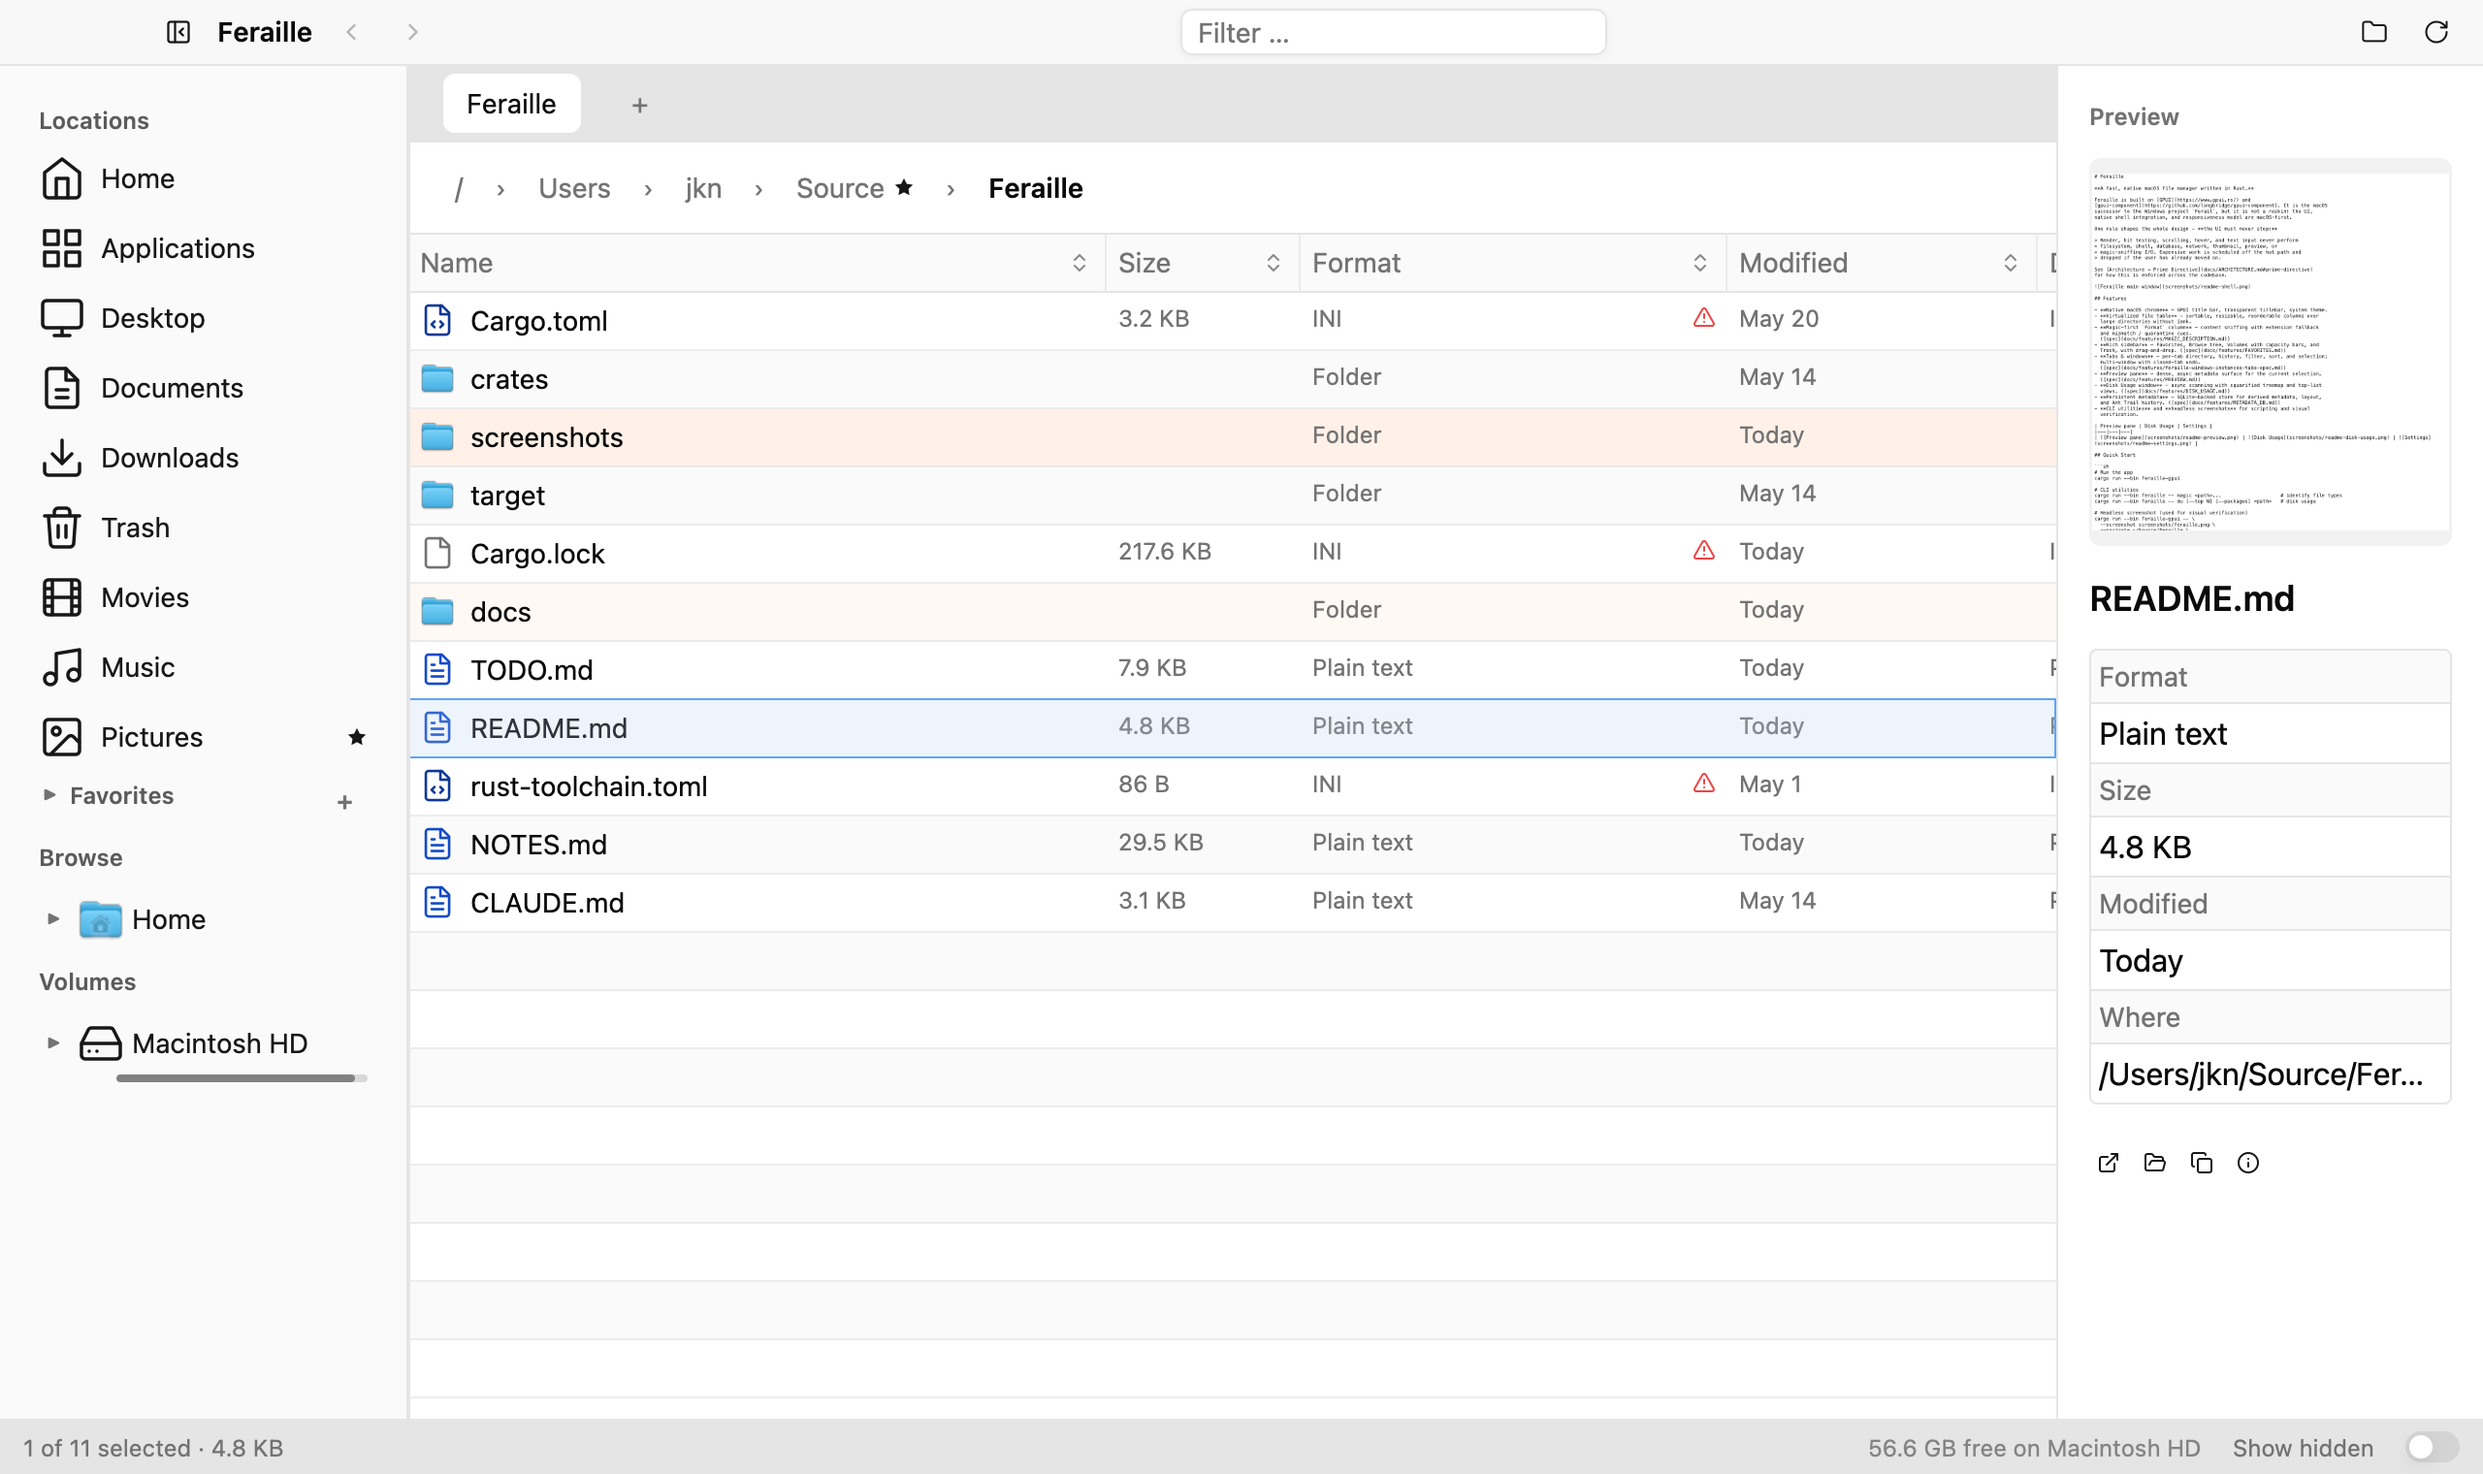
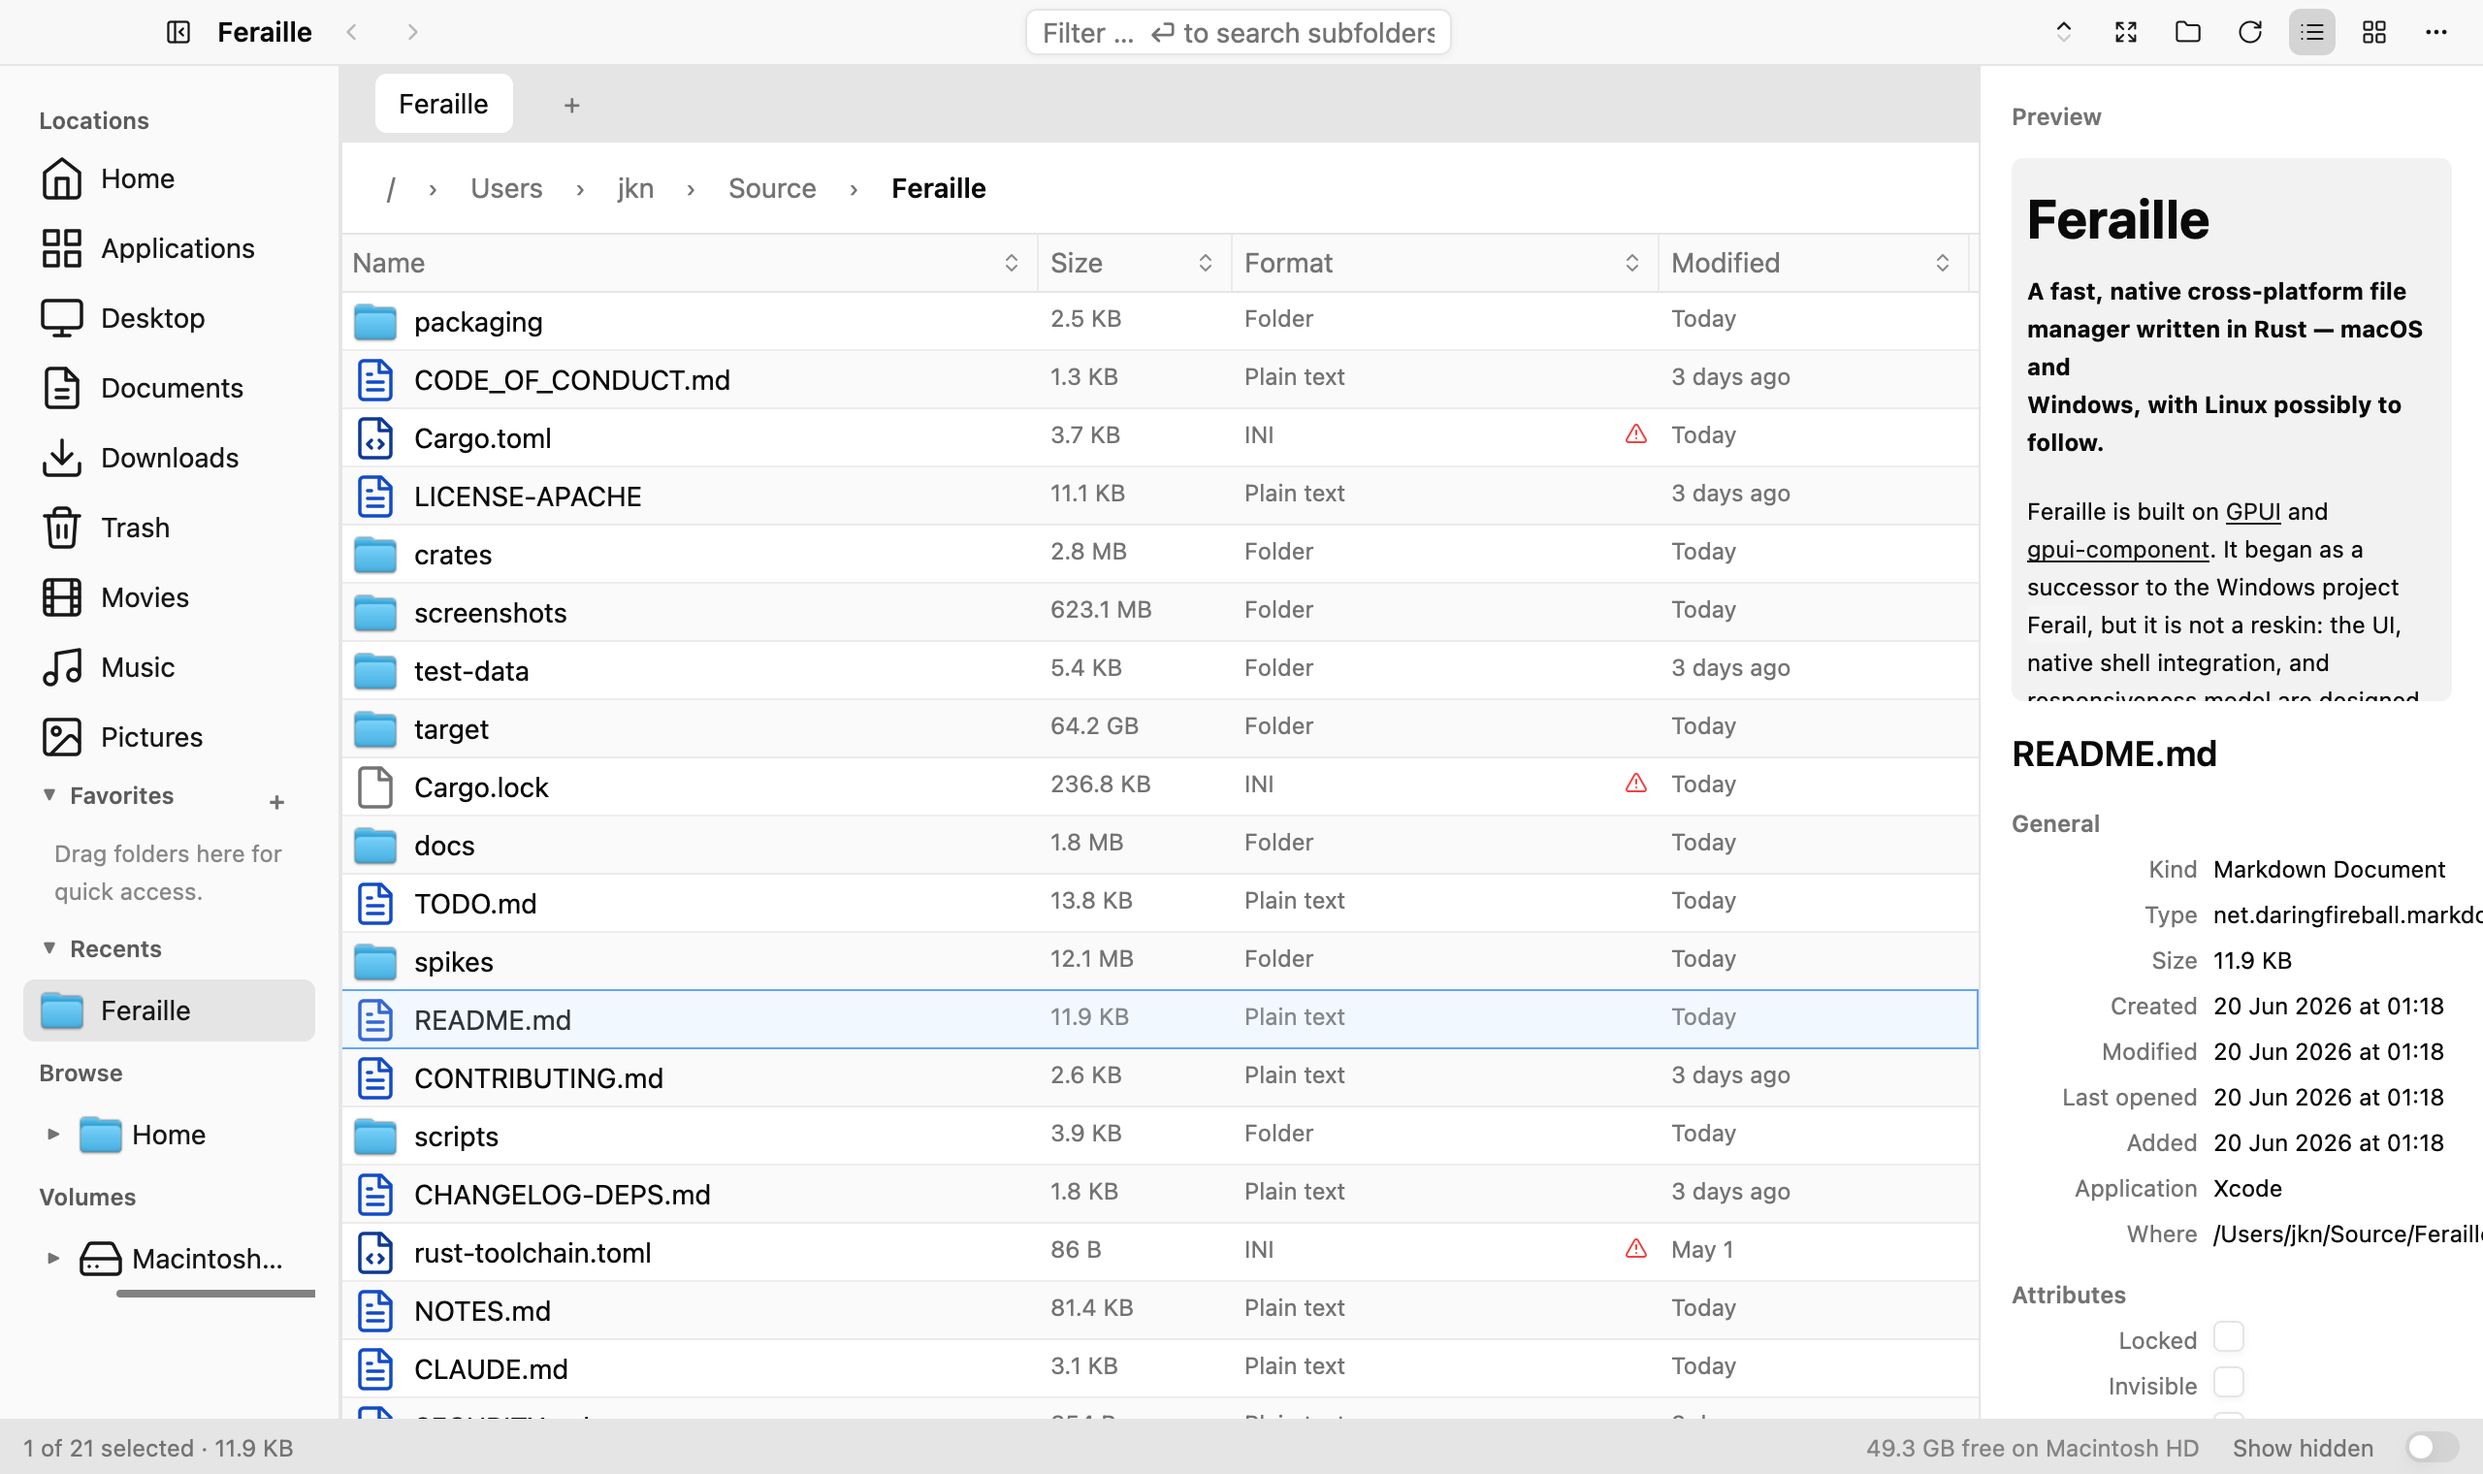
chore: scrub private data and refresh screenshots for public release
Prep the repo for open-sourcing:

- Replace readme-disk-usage.png (leaked real name, resume, personal
  photos from ~/Downloads) with a synthetic generic folder.
- Refresh shell/preview/settings shots and add icon-view + advanced
  viewer showcases, all captured under an isolated HOME so no Recents
  or profile state leaks.
- Relocate the 3 gitignored-screenshots/ doc images into docs/images/
  and fix the now-correct refs (MAGIC_DESCRIPTION, NOTES).
- Genericize maintainer-local paths (CLAUDE.md ../Ferail note,
  TODO.md zed-patch history, ~/Source/Feraille screenshot examples).
- Add defensive .gitignore patterns (.env, *.pem, *.key, cargo config).
- Strip metadata chunks from feraille.png.
- Add --viewer-adjust headless flag to capture the viewer's
  colour/enhance panel.

diff --git a/crates/feraille-gpui/src/screenshot.rs b/crates/feraille-gpui/src/screenshot.rs
@@ -133,6 +133,8 @@ pub struct Args {
     /// shell. A directory renders its first file with the full
     /// playlist; a single file renders a one-entry playlist.
     pub viewer: Option<PathBuf>,
+    /// Open the viewer's colour/enhance adjustments panel for the capture.
+    pub viewer_adjust: bool,
     /// Render the drag ghost ([`crate::file_list::DragBadge`]) for a
     /// drag of N items, in isolation, against a neutral backdrop —
     /// the only way to capture the cursor ghost headlessly (it never
@@ -239,6 +241,7 @@ pub fn parse_args() -> Args {
                 args.settings = Some(iter.next().unwrap_or_default());
             }
             "--viewer" => args.viewer = iter.next().map(PathBuf::from),
+            "--viewer-adjust" => args.viewer_adjust = true,
             "--drag-ghost" => args.drag_ghost = iter.next().and_then(|s| s.parse().ok()),
             "--help" | "-h" => {
                 print_help();
@@ -295,6 +298,7 @@ OPTIONS
                            appearance / files / layout / about.
   --viewer <path>          Render the viewer window for <path> (file or
                            folder) instead of the shell.
+  --viewer-adjust          Open the viewer's colour/enhance panel for capture.
   --drag-ghost <N>         Render the drag cursor ghost for an N-item drag
                            (placeholder tiles) against a neutral backdrop.
   -h, --help               Print this help.
@@ -302,7 +306,7 @@ OPTIONS
 EXAMPLES
   feraille-gpui --screenshot home.png --navigate ~/Documents
   feraille-gpui --screenshot multi.png --new-tab ~/Documents --new-tab ~/Downloads --tab 1
-  feraille-gpui --screenshot filter.png --navigate ~/Source/Feraille --filter toml --search
+  feraille-gpui --screenshot filter.png --navigate . --filter toml --search
   feraille-gpui --screenshot dark.png --theme dark --navigate ~/Documents
 "
     );
@@ -321,6 +325,7 @@ pub fn run(args: Args) -> Result<()> {
     let settings_page = args.settings.clone();
     let disk_usage_root = args.disk_usage.clone();
     let viewer_target = args.viewer.clone();
+    let viewer_adjust = args.viewer_adjust;
     let drag_ghost = args.drag_ghost;
 
     let shell_args = ShellArgs::from(&args);
@@ -429,6 +434,9 @@ pub fn run(args: Args) -> Result<()> {
                         let view = cx.new(|cx| {
                             crate::viewer::ViewerWindow::new(playlist, 0, false, process, window, cx)
                         });
+                        if viewer_adjust {
+                            view.update(cx, |w, _| w.open_adjust_panel());
+                        }
                         cx.new(|cx| gpui_component::Root::new(view, window, cx))
                     } else if let Some(n) = drag_ghost {
                         // Isolated drag-ghost preview: build a DragBadge

diff --git a/crates/feraille-gpui/src/viewer/window.rs b/crates/feraille-gpui/src/viewer/window.rs
@@ -1487,6 +1487,13 @@ impl ViewerWindow {
         cx.notify();
     }
 
+    /// Force the adjustments popup open. Used by the headless screenshot
+    /// harness (`--viewer-adjust`) so the colour/enhance panel can be
+    /// captured without a live keystroke.
+    pub fn open_adjust_panel(&mut self) {
+        self.adjust_panel_open = true;
+    }
+
     /// Current value of a popup slider (reads `adjust` or `enhance`).
     fn slider_value(&self, id: SliderId) -> f32 {
         match id {

diff --git a/NOTES.md b/NOTES.md
@@ -1148,7 +1148,7 @@ Spec §2.3 wants a focus ring distinct from selection fill. The Table primitive 
 - **`reconcile_done` is the canonical "after the load settles" pass.** It drops NodeIds not in the final visible model, except when a filter is active — those get moved to `Tab::filtered_out` instead so a future filter loosening can lift them back. It also re-seats `anchor` / `lead` if they vanished, and demotes `range_live` to false when its endpoints are gone.
 - **Filter holding is implicit via the same path.** Narrowing the filter calls `load_path`; the new model shrinks; `reconcile_done` with filter active moves shrunk-out members to `filtered_out`. Loosening the filter does the inverse — `restore_filtered_out_against_model` runs on every batch + on `Done`, lifting members back as their rows arrive. `clear_active_selection` (Esc) also drains `filtered_out` so a follow-up filter loosen can't resurrect ghosts.
 - **Live Shift-range now actually streams.** `range_live: bool` on `Tab` is set by `range_select` (Shift / Cmd+Shift click) and the `move_selection(..., extend=true, ..)` keyboard path; cleared by every non-range gesture (plain click, Cmd-click, plain kbd nav, Cmd+A, Esc, navigation). When set, `recompute_live_range` runs on every batch and at `Done`: if both `anchor` and `lead` are visible, selection is rebuilt as the inclusive anchor→lead span in the current visible order; otherwise it waits for the missing endpoint to arrive.
-- **Verified via screenshots** at [screenshots/selection-iter2-multi.png](screenshots/selection-iter2-multi.png) (multi-select identity unchanged after the HashSet refactor) and [screenshots/selection-iter2-sort.png](screenshots/selection-iter2-sort.png) (sort applied with selection still alive).
+- **Verified via screenshots** at [docs/images/selection-iter2-multi.png](docs/images/selection-iter2-multi.png) (multi-select identity unchanged after the HashSet refactor) and [docs/images/selection-iter2-sort.png](docs/images/selection-iter2-sort.png) (sort applied with selection still alive).
 - **Caveats deferred to later iters:** the spec's "sort change recomputes the span in the new visible order then freezes the range" polish — we keep the range live and rebuild on next batch instead (good enough on real-world flows; the strict freeze can land with a delegate→Shell hook later). DnD §3 and tree multi-select still queued.
 
 ## Iter 1 outcome

diff --git a/README.md b/README.md
@@ -42,6 +42,8 @@ for how this is enforced across the codebase.
   theme (macOS today; matching Windows chrome is in progress).
 - **Virtualized file table** — sortable, resizable, reorderable columns over
   large directories without jank.
+- **List & icon views** — switch any tab between the dense table and a
+  Finder-style icon grid.
 - **Magic-first `Format` column** — content sniffing with extension fallback
   and mismatch / quarantine cues.
   ([spec](docs/features/MAGIC_DESCRIPTION.md))
@@ -52,6 +54,9 @@ for how this is enforced across the codebase.
   ([spec](docs/features/feraille-windows-instances-tabs-spec.md))
 - **Preview pane** — dense, async metadata surface for the current selection.
   ([spec](docs/features/PREVIEW.md))
+- **Media viewer** — built-in image and video viewer with live colour,
+  sharpen, denoise, and upscale adjustments; VLC-backed for any-format video.
+  ([spec](docs/features/VIEWER.md))
 - **Disk Usage window** — async scanning with squarified treemap and top-list
   views. ([spec](docs/features/DISK_USAGE.md))
 - **Persistent metadata** — SQLite-backed store for derived metadata, layout,
@@ -62,6 +67,8 @@ for how this is enforced across the codebase.
 | Preview pane | Disk Usage | Settings |
 |---|---|---|
 | ![Preview pane](docs/images/readme-preview.png) | ![Disk Usage](docs/images/readme-disk-usage.png) | ![Settings](docs/images/readme-settings.png) |
+| **Icon view** | **Media viewer** | **Magic & mismatch** |
+| ![Icon view](docs/images/readme-icons.png) | ![Media viewer](docs/images/readme-viewer.png) | ![Magic detection](docs/images/magic-description.png) |
 
 ## How Feraille Compares
 
@@ -135,7 +142,7 @@ cargo run --bin feraille -- du [--top N] [--packages] <path>   # disk usage
 # Headless screenshot (used for visual verification)
 cargo run --bin feraille-gpui -- \
   --screenshot screenshots/feraille.png \
-  --navigate ~/Source/Feraille \
+  --navigate . \
   --width 1400 --height 900 \
   --select-name Cargo.toml --preview
 

diff --git a/TODO.md b/TODO.md
@@ -225,19 +225,11 @@ feature notes in [docs/features/](docs/features/README.md).
   modal). Larger, deferred Windows-only ports: third-party
   shell-extension context-menu verbs (`IContextMenu`) and WSL
   integration.
-- Decide how to share the local-zed `gpui_windows::render_to_image` patch
-  across machines. Today the override only exists on the Windows dev box
-  (the `[patch]` block in `Cargo.toml` pointed at `../zed/` which doesn't
-  exist on Mac — removed in `af39f0a`). The Windows screenshot harness
-  needs the patch; Mac doesn't. Two viable shapes, pick one:
-  - **A. Per-machine `.cargo/config.toml`** with the local-path `[patch]`,
-    gitignored. Each dev maintains their own; Mac falls through to upstream.
-    Lowest friction, no committed record of the patch shape.
-  - **B. Publish the local zed branch as a GitHub fork** and rewrite the
-    `[patch]` block to point at `git = "<fork-url>", rev = "..."`. Works
-    identically on both platforms; requires pushing each iteration before
-    Feraille sees it. Better long-term once the gpui_windows change is
-    stable enough to upstream-PR.
+- The Windows screenshot harness needs a `gpui_windows::render_to_image`
+  patch that isn't upstream yet. Publish the gpui fork carrying it and point
+  the `[patch]` block at `git = "<fork-url>", rev = "..."` so both platforms
+  build identically, instead of depending on a local-path override. Best done
+  once the `gpui_windows` change is stable enough to send as an upstream PR.
 
 ## Cleanup
 

diff --git a/docs/features/MAGIC_DESCRIPTION.md b/docs/features/MAGIC_DESCRIPTION.md
@@ -33,13 +33,16 @@ shape.
 
 ### Visual verification
 
-Screenshot at [screenshots/magic-description.png](../../screenshots/magic-description.png)
-shows real values populated on `target/debug`:
+Screenshot at [magic-description.png](../images/magic-description.png)
+shows real values populated by content sniffing on a folder of mixed files:
 
-- `feraille-gpui.exe` → `Windows PE \u{00b7} 64-bit \u{00b7} x86-64`
-- `feraille-gpui.d` → `Plain text`
-- `feraille_gpui.pdb` → `Binary data`
-- Folders → empty (correct).
+- `screenshot.png` → `PNG image`
+- `photo.jpg` → `JPEG image`
+- `project-bundle.zip` → `ZIP archive`
+- `cargo-lock.gz` → `Gzip archive`
+- `run.sh` → `Shell script`
+- `report.txt` → `PNG image` with the mismatch triangle (a PNG wearing a
+  `.txt` extension — magic wins, the ⚠ flags the disagreement).
 
 The headless `--screenshot` path now works on Windows via a
 PrintWindow capture in `feraille-shell-win32` (gpui_windows doesn't

diff --git a/CLAUDE.md b/CLAUDE.md
@@ -16,10 +16,10 @@ Read first:
 cargo run --bin feraille-gpui
 ```
 
-The Windows predecessor is a separate `Ferail` repo (checked out as a sibling
-at `../Ferail` in the maintainer's setup). When the user says a feature was
-better in the Windows version, inspect that repo before redesigning from
-scratch. Copy intent and lessons, not Win32-specific shape.
+Feraille has a Windows predecessor, `Ferail` — a separate, older codebase. If
+you have a local checkout of it, inspect that before redesigning a feature the
+user says worked better in the Windows version. Copy intent and lessons, not
+Win32-specific shape.
 
 ## Prime Directive
 

diff --git a/docs/features/TESTING_OVERLAYS.md b/docs/features/TESTING_OVERLAYS.md
@@ -9,8 +9,8 @@ Use the binary's screenshot mode:
 
 ```sh
 cargo run -- \
-  --screenshot /tmp/feraille.png \
-  --navigate ~/Source/Feraille \
+  --screenshot screenshots/feraille.png \
+  --navigate . \
   --width 1400 --height 900
 ```
 
